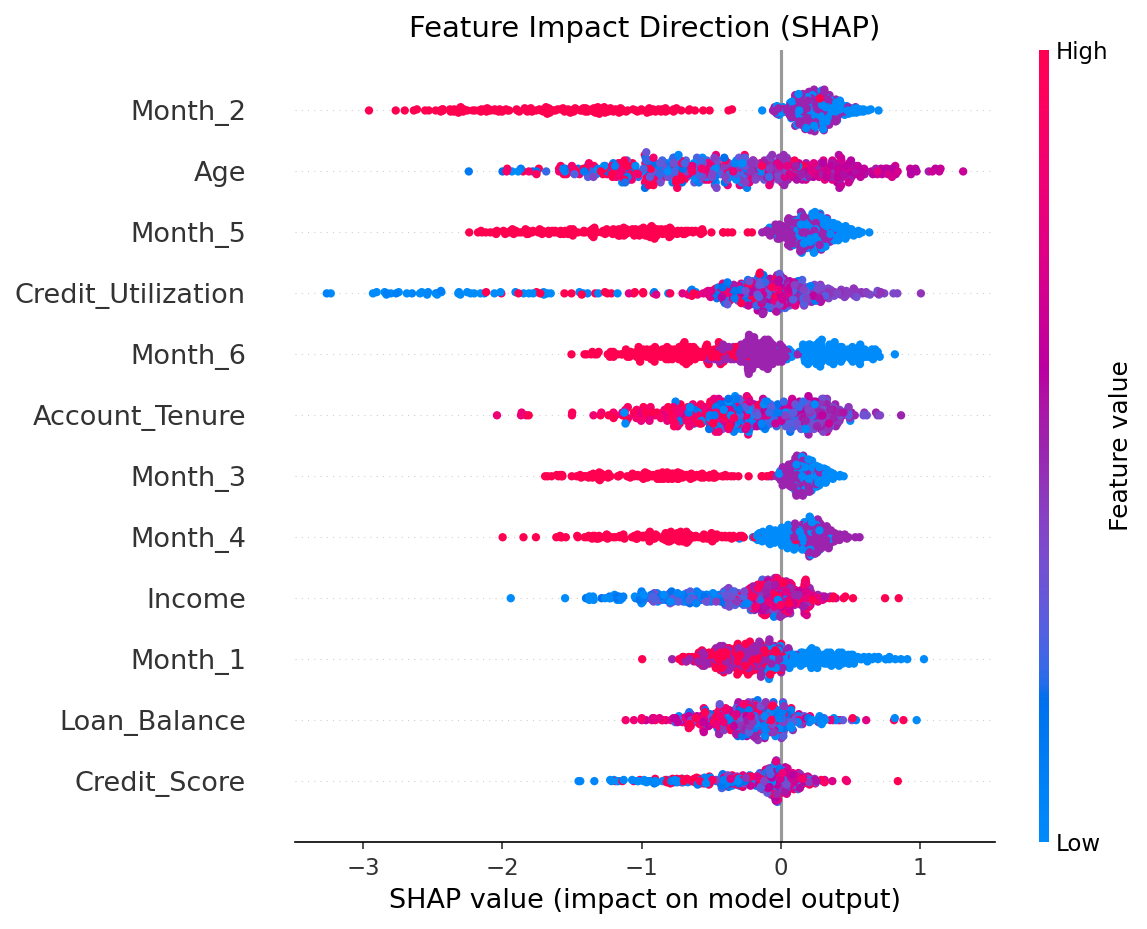
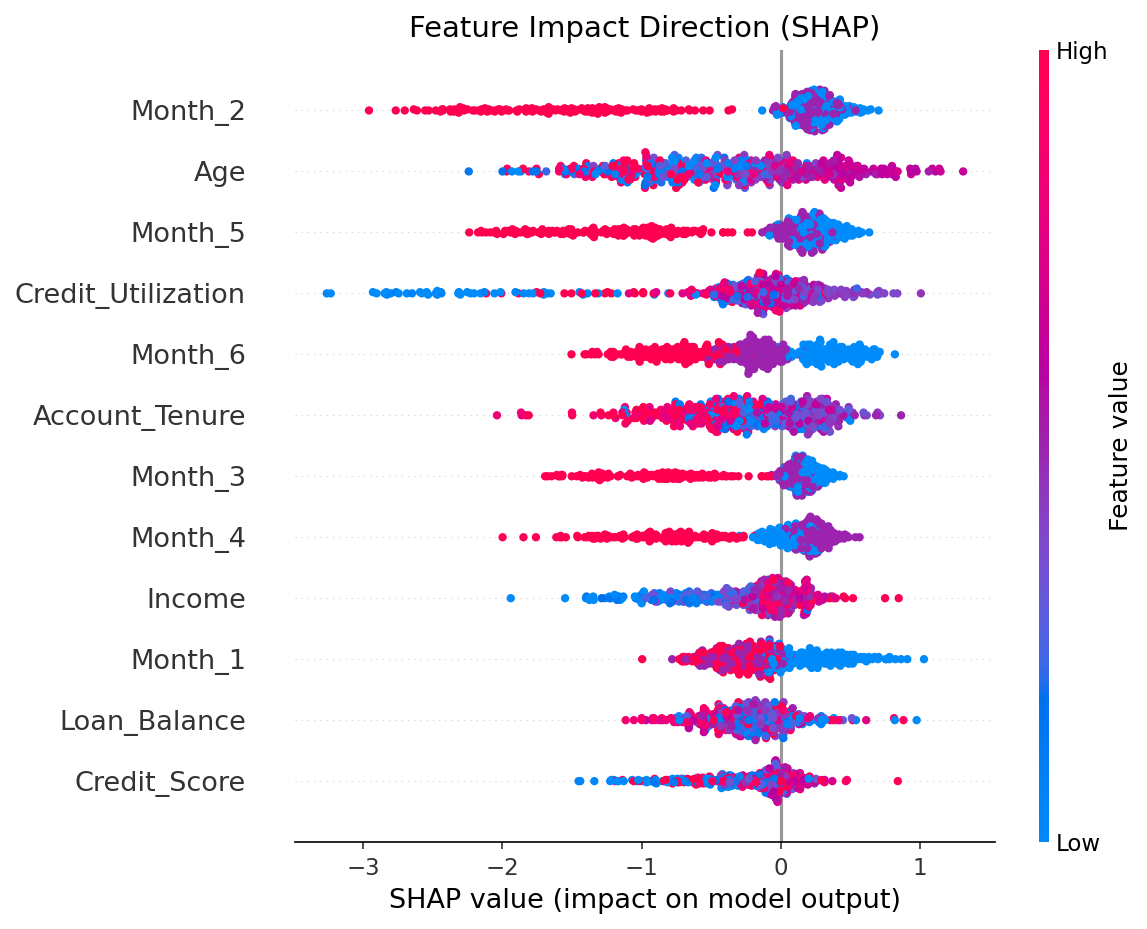
update on python code

Changed region(s): [[0.5187, 0.3746, 0.7629, 0.8741], [0.4577, 0.0936, 0.7934, 0.3434]]

diff --git a/src/preprocessor.py b/src/preprocessor.py
@@ -35,7 +35,7 @@ def preprocess(df):
 if __name__ == "__main__":
 
     # Load the cleaned CSV from Excel
-    df_raw = pd.read_csv("Cleaned_dataset.csv")
+    df_raw = pd.read_csv("excel data/processed/Cleaned_dataset.csv")
     print(f"Loaded: {df_raw.shape}")
 
     # Clean it
@@ -43,5 +43,5 @@ if __name__ == "__main__":
 
     # Save to processed folder
     Path("data").mkdir(parents=True, exist_ok=True)
-    df_clean.to_csv("data/fully_cleaned.csv", index=False)
-    print("Saved to data/fully_cleaned.csv")
+    df_clean.to_csv("excel data/fully_cleaned.csv", index=False)
+    print("Saved to excel data/fully_cleaned.csv")

diff --git a/src/feature_engineer.py b/src/feature_engineer.py
@@ -40,11 +40,11 @@ def engineer_features(df):
 #Run directly to test 
 if __name__ == "__main__":
 
-    df = pd.read_csv("data/fully_cleaned.csv")
+    df = pd.read_csv("excel data/fully_cleaned.csv")
     print(f"Loaded: {df.shape}")
 
     df = engineer_features(df)
 
-    Path("data").mkdir(parents=True, exist_ok=True)
-    df.to_csv("data/featured.csv", index=False)
+    Path("excel data").mkdir(parents=True, exist_ok=True)
+    df.to_csv("excel data/featured.csv", index=False)
     print("Saved to data/...featured.csv")

diff --git a/src/exporter.py b/src/exporter.py
@@ -96,7 +96,7 @@ def export_scores(df, feature_cols, shap_df):
 # Run directly to test
 if __name__ == "__main__":
 
-    df = pd.read_csv("data/featured.csv")
+    df = pd.read_csv("excel data/featured.csv")
     print(f"Loaded: {df.shape}")
 
     # Load SHAP summary from Phase 6

diff --git a/src/explainer.py b/src/explainer.py
@@ -111,7 +111,7 @@ def explain(df, feature_cols):
 if __name__ == "__main__":
     import json
 
-    df = pd.read_csv("data/featured.csv")
+    df = pd.read_csv("excel data/featured.csv")
     print(f"Loaded: {df.shape}")
 
     # Load feature list from saved metrics

diff --git a/src/model.py b/src/model.py
@@ -143,7 +143,7 @@ def train(df):
 # Run directly to test
 if __name__ == "__main__":
 
-    df = pd.read_csv("data/featured.csv")
+    df = pd.read_csv("excel data/featured.csv")
     print(f"Loaded: {df.shape}")
 
     model, feature_cols = train(df)

diff --git a/src/eda_plots.py b/src/eda_plots.py
@@ -161,6 +161,6 @@ def chart_6_risk_tier(df):
 # Run directly to test 
 if __name__ == "__main__":
 
-    df = pd.read_csv("data/featured.csv")
+    df = pd.read_csv("excel data/featured.csv")
     print(f"Loaded: {df.shape}")
     plot_all(df)
